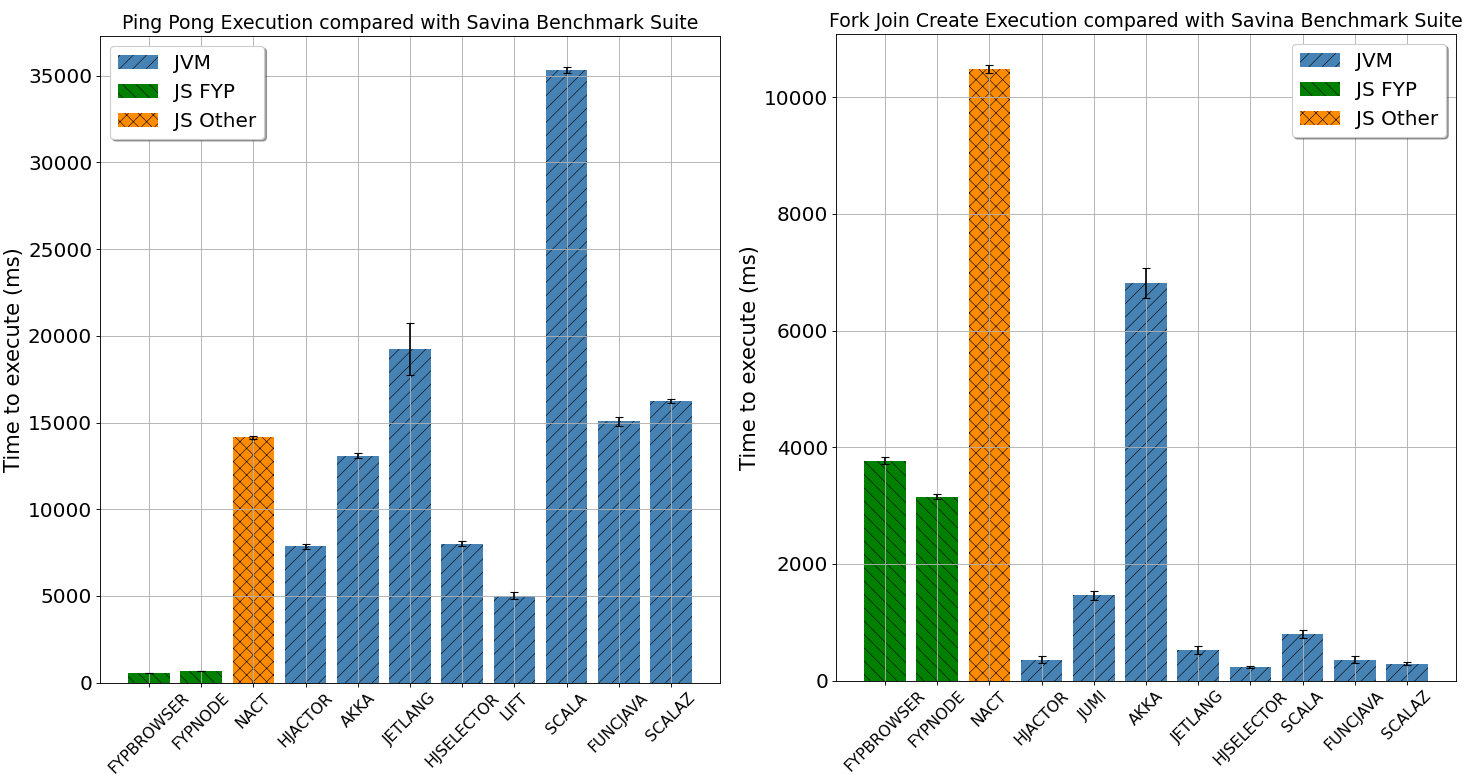
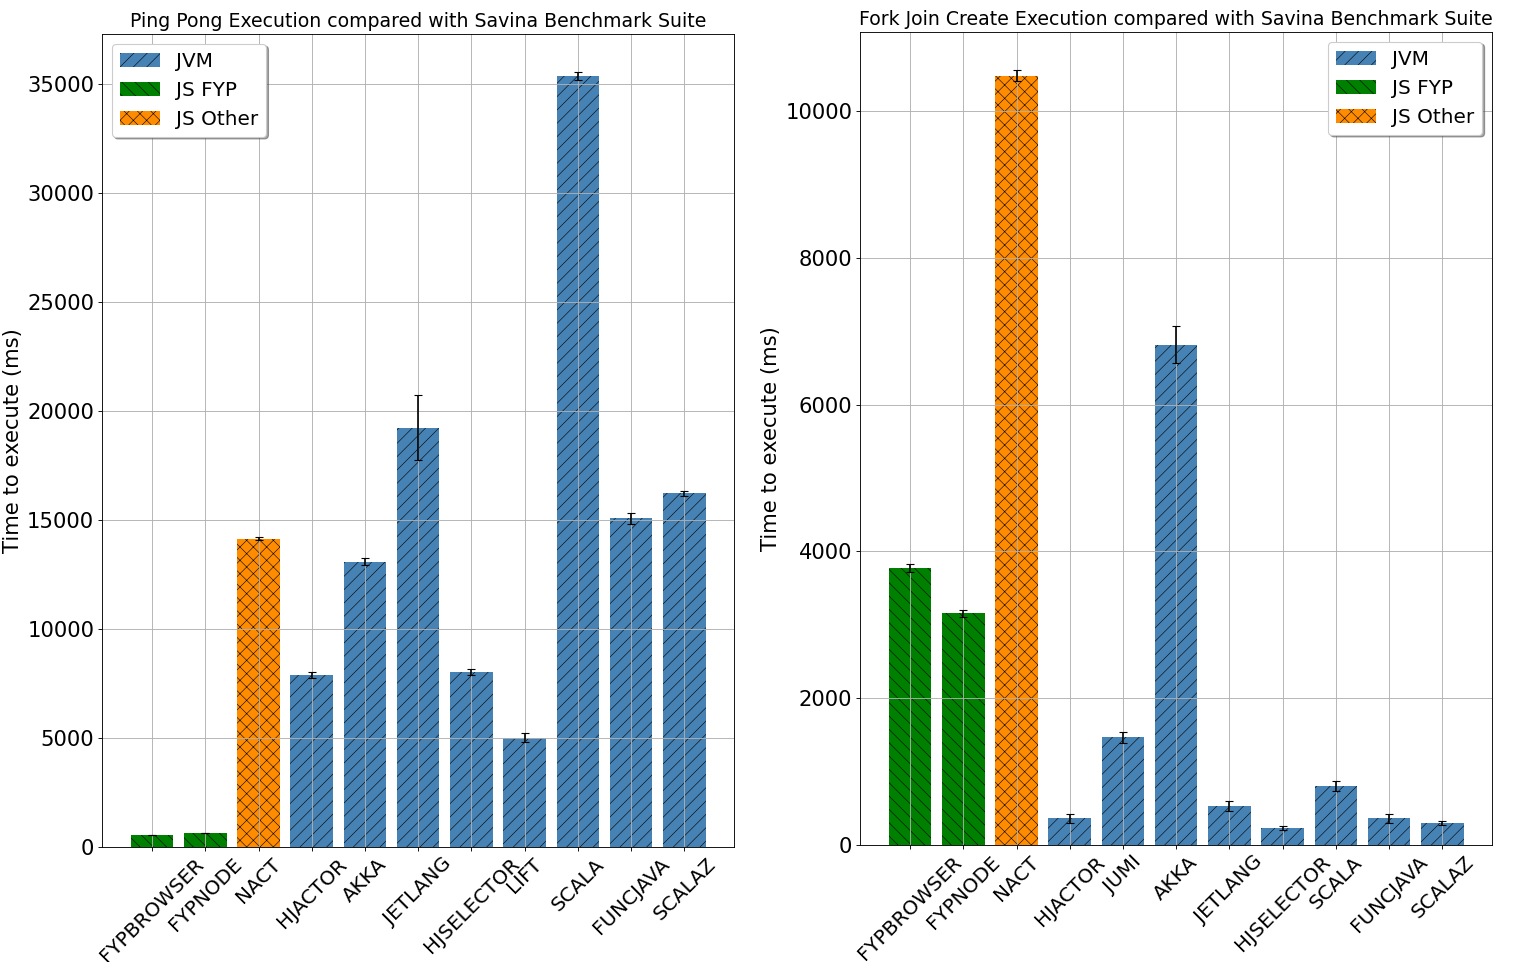
Updated diagrams

diff --git a/benchmarks/visualisations/savinacomparision.py b/benchmarks/visualisations/savinacomparision.py
@@ -34,7 +34,7 @@ def compare(directory, title, output):
 
     averages = [np.average(data[key]) for key in data.keys()]
     errors = [sem(data[key]) for key in data.keys()]
-    figure(figsize=(10, 10.5), dpi=80)
+    figure(figsize=(10.2, 13.2), dpi=80)
     plt.bar(data.keys(), averages, yerr=errors,
             hatch='//', color='steelblue', label='JVM', capsize=4)
     colour = [averages[0], averages[1]]
@@ -45,8 +45,8 @@ def compare(directory, title, output):
         plt.bar(data.keys(), colour, color='darkorange',
                 hatch='xx', label='JS Other')
     plt.rcParams['hatch.linewidth'] = 0.5
-    plt.xticks(np.arange(len(averages)), list(data.keys()), rotation=45, fontsize=14)
-    plt.yticks(fontsize=18)
+    plt.xticks(np.arange(len(averages)), list(data.keys()), rotation=45, fontsize=18)
+    plt.yticks(fontsize=19)
     plt.title(title, fontsize=17)
     plt.xlabel('Environment', fontsize=17)
     plt.ylabel('Time to execute (ms)', fontsize=19)
